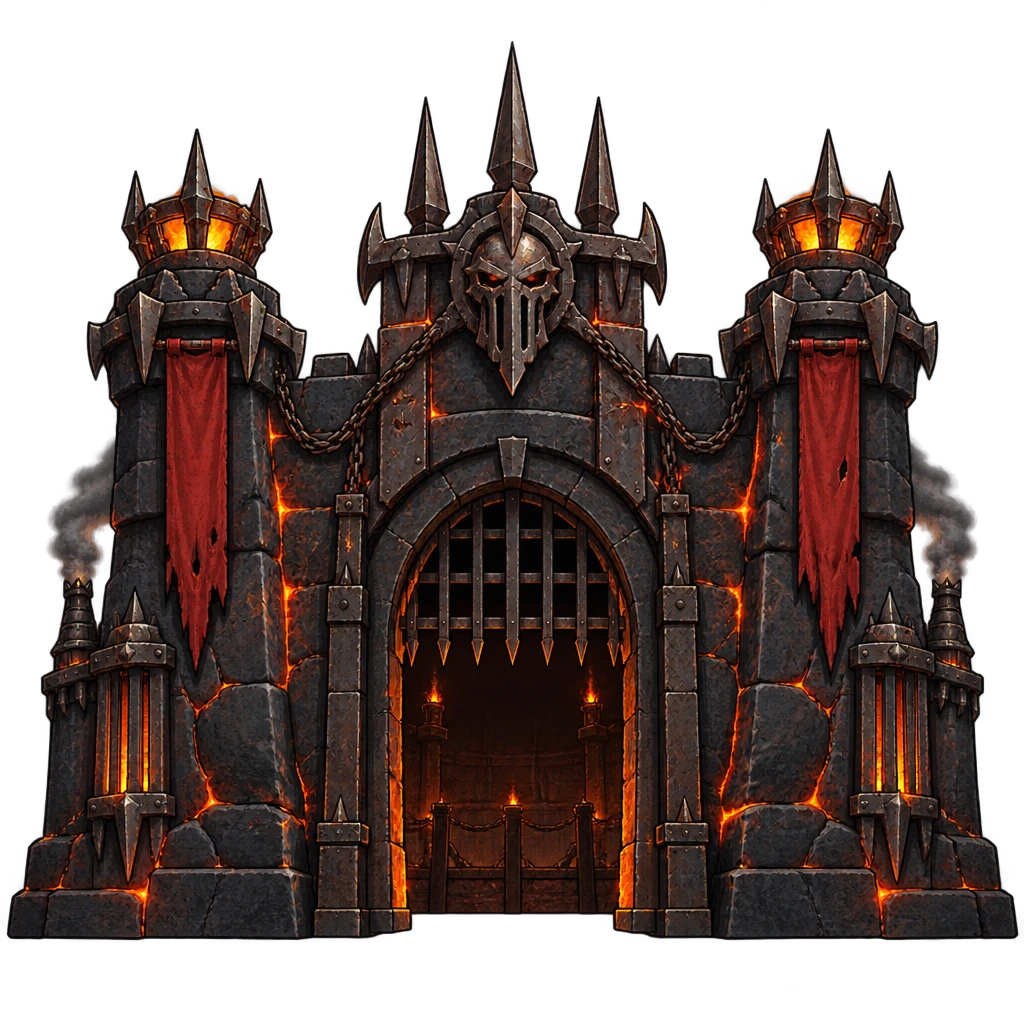
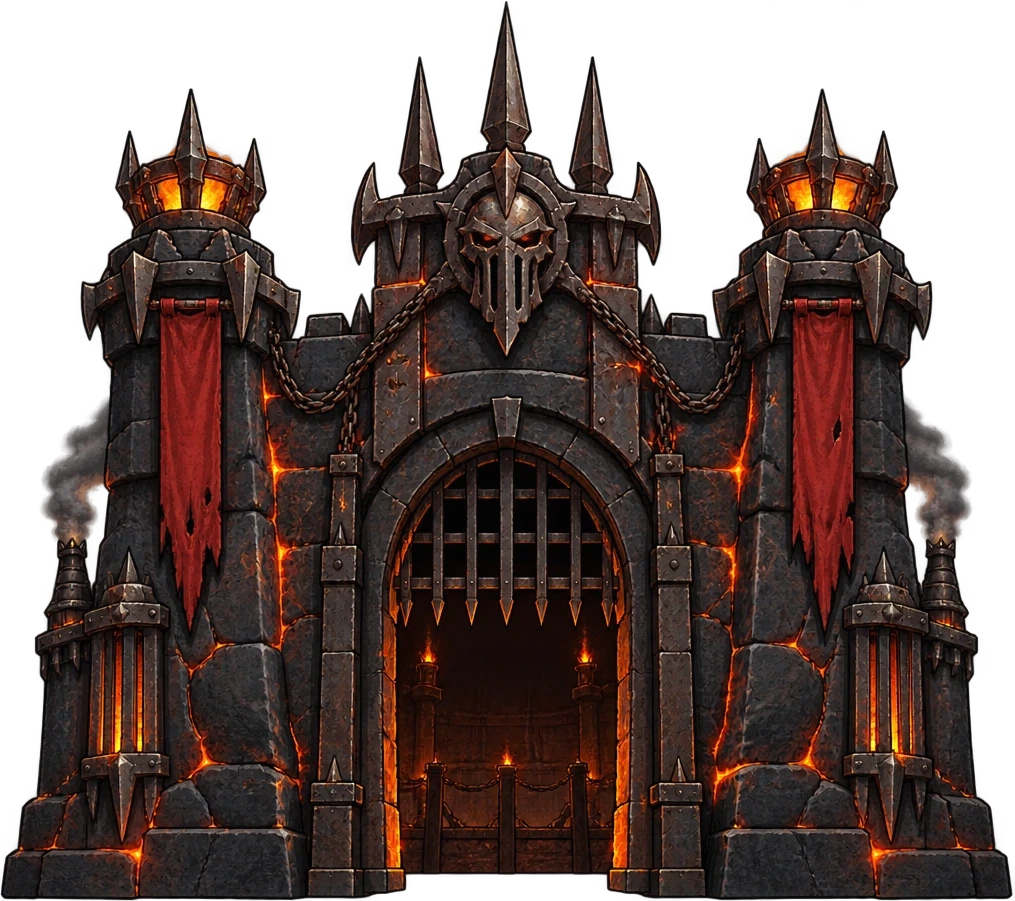
Plant the Coliseum fronts: trim to base, size by height, contact shadow
Luke on the first set: "Meh its okay but feels like it could be better."

Measured before touching the art, and the art was not the problem:

    rootwood   content 980x761   bottom gap 144px  = 14.1% of the sprite
    gilded     content 990x902   bottom gap  83px  =  8.1%
    ashen      content 1015x901  bottom gap  83px  =  8.1%

DIE_CUT asks for ~8% empty margin so nothing gets cropped, and the model obeys
UNEVENLY. Every building was therefore hovering above the floor, by a different
amount each. And because the CONTENT aspects differ (980x761 is far wider than
it is tall; the other two are nearly square), object-fit: contain inside one
square box drew them at three different scales. Three buildings, three sizes,
none of them standing on anything. [[a-sprite-stands-on-its-measured-surface]]

So, no regeneration and nothing respent:

  · scripts/trim-grove-coliseums.mjs crops each front to its alpha bounding box
    and prints the resulting aspect ratios.
  · COLISEUM_ART carries that measured ratio. The scene sizes by HEIGHT and
    derives width, so all seven stand the same height whatever their shape.
  · object-fit goes contain -> fill, which is only safe BECAUSE of the trim.
  · a contact-shadow ellipse under the base. A drop-shadow traces the
    silhouette and travels with it, so a sprite wearing one still reads as a
    sticker; the pooled shadow is what says building and ground are touching.

Size was tuned against the PHONE, which is where it goes wrong:
[…]

diff --git a/src/components/grove/GroveScene.js b/src/components/grove/GroveScene.js
@@ -1,7 +1,7 @@
 "use client";
 
 import { useCallback, useEffect, useMemo, useRef, useState } from "react";
-import { coliseumArt } from "@/lib/marketplace/grove-arena.js";
+import { COLISEUM_H, coliseumArt } from "@/lib/marketplace/grove-arena.js";
 import { createPortal } from "react-dom";
 import { GiSoundOff, GiSoundOn } from "react-icons/gi";
 
@@ -669,7 +669,11 @@ export default function GroveScene({
     //
     // One screen in from the back wall: you arrive from the previous zone walking right, and it comes into
     // view almost immediately, without ever sitting on top of the door you just came through.
-    const colX = DOOR_INSET + 16;
+    // ⚠ TUNED AGAINST THE PHONE, NOT THE DESKTOP. Three positions were tried: +16 put the marshal on top
+    // of the back door the hero spawns beside; +24 cleared it but pushed the building off the right edge of
+    // a 390px screen, so the doorway was not visible from the spawn at all. +20, with the marshal pulled in
+    // to 11 units, clears the door AND leaves the building in frame as you arrive.
+    const colX = DOOR_INSET + 20;
     // ⚠ THE ARENA BRINGS ITS OWN ROOM. The backdrop is read from zone.bg in two places — the haze behind
     // everything and the tiled sky — and an arena that only replaced the FLOOR would have put a Coliseum's
     // platforms in front of a forest. One derived source so the two cannot disagree.
@@ -4005,6 +4009,9 @@ export default function GroveScene({
                 {coliseumHere ? (
                     <>
                         <button type="button" ref={colGateRef}
+                            /* Height is the constant; width follows the building's own measured aspect, so
+                               all seven stand the same height instead of six different ones. */
+                            style={{ "--col-h": COLISEUM_H, "--col-ar": coliseumArt(coliseumHere.map).ar }}
                             className={`gv-colgate${coliseumHere.keys > 0 || coliseumHere.dailyReady ? " is-open" : " is-shut"}`}
                             onPointerDown={(e) => { e.stopPropagation(); onColiseum?.(); }}
                             aria-label={coliseumHere.keys > 0
@@ -4016,7 +4023,7 @@ export default function GroveScene({
                                 front is built from what its map HAS — roots, bone, basalt — so walking in
                                 is not a change of world. See COLISEUM_ART in grove-arena.js. */}
                             {/* eslint-disable-next-line @next/next/no-img-element */}
-                            <img src={coliseumArt(coliseumHere.map)} alt="" draggable={false} />
+                            <img src={coliseumArt(coliseumHere.map).src} alt="" draggable={false} />
                             <span className="gv-colgate-tag">Coliseum</span>
                             <span className="gv-colgate-keys">
                                 {coliseumHere.dailyReady && coliseumHere.keys < 1

diff --git a/src/lib/marketplace/grove-arena.js b/src/lib/marketplace/grove-arena.js
@@ -46,17 +46,42 @@ export const arenaArt = (mapN) => ARENA_ART[Number(mapN)] || ARENA_ART[1];
  * Drawn by scripts/gen-grove-coliseums.mjs, die-cut on transparency so each one composites onto whatever
  * level art it stands on — the backdrops are the levels and are not touched.
  */
+/**
+ * ⚠ EACH ONE CARRIES ITS MEASURED ASPECT, AND THAT IS NOT BOOKKEEPING.
+ *
+ * The fronts are drawn on a square canvas but the BUILDINGS are not square, and not square in the same way:
+ * rootwood's content is 1.288 wide-to-tall, gilded's is 1.098. Sized as a square box with object-fit:
+ * contain, the wide one shrinks to fit its height and renders visibly smaller than the others — seven
+ * buildings at six different scales. Sizing by HEIGHT and deriving width from this ratio makes them all
+ * stand the same height, which is what "a row of Coliseums" has to mean.
+ *
+ * Written by scripts/trim-grove-coliseums.mjs, which prints exactly this object after cropping. Re-run it
+ * after drawing a new front and paste the number in; a stale ratio stretches the building.
+ */
 export const COLISEUM_ART = {
-    1: "/images/grove/coliseum-rootwood.webp",
-    2: "/images/grove/coliseum-undercave.webp",
-    3: "/images/grove/coliseum-fen.webp",
-    4: "/images/grove/coliseum-saltwrack.webp",
-    5: "/images/grove/coliseum-drowned.webp",
-    6: "/images/grove/coliseum-gilded.webp",
-    7: "/images/grove/coliseum-ashen.webp",
+    1: { src: "/images/grove/coliseum-rootwood.webp", ar: 1.288 },
+    2: { src: "/images/grove/coliseum-undercave.webp", ar: 1.1 },
+    3: { src: "/images/grove/coliseum-fen.webp", ar: 1.1 },
+    4: { src: "/images/grove/coliseum-saltwrack.webp", ar: 1.1 },
+    5: { src: "/images/grove/coliseum-drowned.webp", ar: 1.1 },
+    6: { src: "/images/grove/coliseum-gilded.webp", ar: 1.098 },
+    7: { src: "/images/grove/coliseum-ashen.webp", ar: 1.127 },
 };
 
 export const coliseumArt = (mapN) => COLISEUM_ART[Number(mapN)] || COLISEUM_ART[1];
+
+/**
+ * How tall a Coliseum stands, in world units.
+ *
+ * ⚠ A PHONE SEES ABOUT 27 UNITS, AND THE BUILDING HAS TO FIT IN THEM. 30 was tried and is wrong: at
+ * rootwood's 1.288 aspect that is 38.6 units wide, so on a 390px phone the doorway itself was off the
+ * right-hand edge — a landmark you cannot take in is not a landmark. [[world-constants-sized-against-a-view]].
+ *
+ * 20 x 1.288 = 25.8 units, which clears the phone with the marshal still beside it. And it is NOT the same
+ * 20 as before: the sprites were carrying 8-14% transparent padding until they were trimmed, so the
+ * building inside the box is materially bigger at the identical number.
+ */
+export const COLISEUM_H = 20;
 
 /** One screen, at the narrowest real viewport. */
 export const ARENA_W = 26;

diff --git a/src/components/grove/grove-css.js b/src/components/grove/grove-css.js
@@ -1108,12 +1108,18 @@ export const GROVE_CSS = `
    still while the world scrolled past -- which is what .gv-npc does and the reason the quest giver
    reads as part of the HUD instead of part of the room. */
 .gv-colgate { position: absolute; left: 0; bottom: var(--gv-ground, 13%);
-    width: calc(20 * var(--gv-unit, 1%)); height: calc(20 * var(--gv-unit, 1%));
-    margin-left: calc(-10 * var(--gv-unit, 1%));
+    /* HEIGHT is the constant and width follows the building's own aspect (--col-ar, measured by
+       scripts/trim-grove-coliseums.mjs). A square box with object-fit: contain rendered the wide fronts
+       smaller than the tall ones, which is six scales for one row of buildings. */
+    height: calc(var(--col-h, 30) * var(--gv-unit, 1%));
+    width: calc(var(--col-h, 30) * var(--col-ar, 1.1) * var(--gv-unit, 1%));
+    margin-left: calc(var(--col-h, 30) * var(--col-ar, 1.1) * var(--gv-unit, 1%) / -2);
     padding: 0; border: 0; background: none; cursor: pointer; z-index: 235;
     will-change: transform; -webkit-tap-highlight-color: transparent;
     touch-action: manipulation; }
-.gv-colgate img { width: 100%; height: 100%; object-fit: contain; object-position: bottom;
+/* ⚠ fill, NOT contain. The sprite is cropped to the building now, so the box IS the building and
+   contain would only reintroduce slack. The trim is what makes this safe. */
+.gv-colgate img { width: 100%; height: 100%; object-fit: fill; display: block;
     /* ⚠ NO HUE FILTER ANY MORE, AND THAT IS THE POINT. This used to recolour the teal zone portal to tell
        the two apart, which was a workaround for the building not existing. Each map now has its OWN front,
        painted in its own materials, so tinting it would be repainting art that was drawn correctly. */
@@ -1143,7 +1149,7 @@ export const GROVE_CSS = `
        first pass guessed 13 and drew a quest-giver nearly twice the height of the hero standing next to
        him -- the sprite is the same art the HUD shows at 72px, where nothing tells you its world scale. */
     width: calc(8 * var(--gv-unit, 1%)); height: calc(8 * var(--gv-unit, 1%));
-    margin-left: calc(-15 * var(--gv-unit, 1%));
+    margin-left: calc(-11 * var(--gv-unit, 1%));
     padding: 0; border: 0; background: none; cursor: pointer; z-index: 236;
     will-change: transform; -webkit-tap-highlight-color: transparent;
     touch-action: manipulation; }
